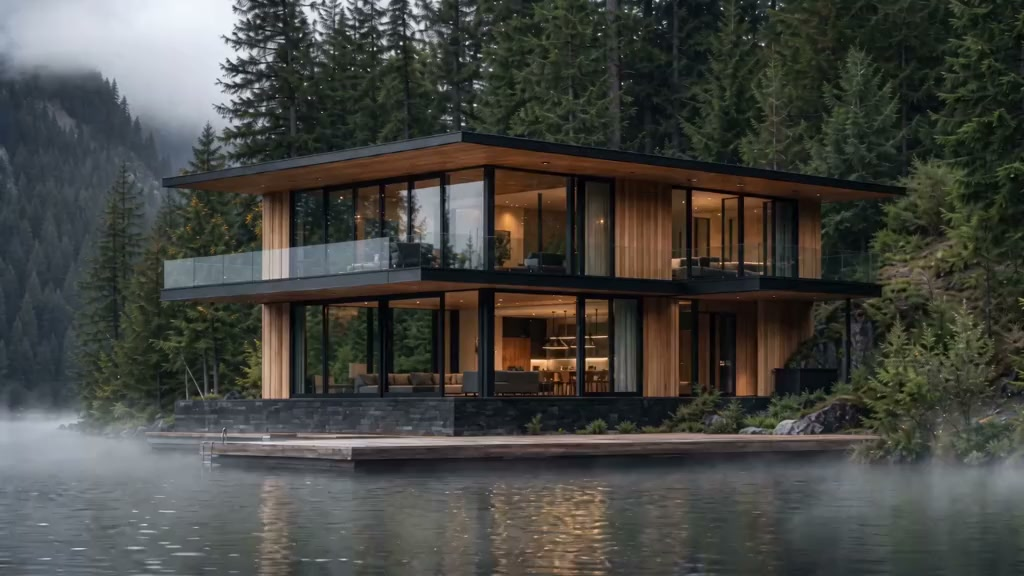
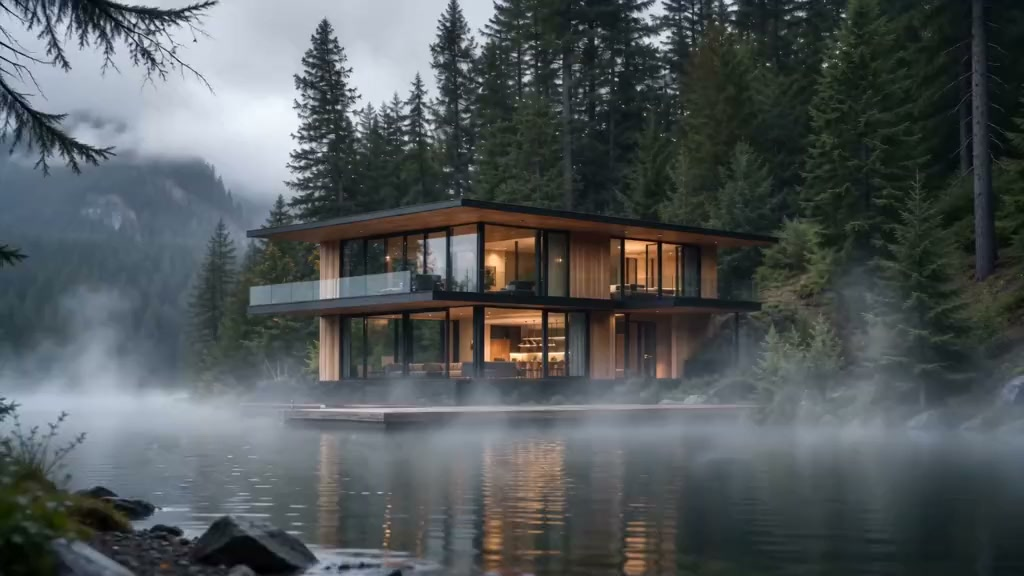
Hero v3: a slow dolly, because ping-pong retired the no-camera-move rule
Mist, ripple and swaying branches were not enough - the hero still read as a
photograph with some vapour on it. What tells an eye it is watching video is
camera motion, not world motion.

The original "no zoom, no camera move" line was never an aesthetic choice. It
was a workaround for looping: a camera that travels does not return, the last
frame sits far from the first, and the loop pops. Once the encode became
ping-pong that constraint was already solved - the reverse half walks the
camera back frame for frame. The prohibition had outlived its reason and was
still costing us.

A 15% dolly, same model, same price:

              frame drift    loop seam
  locked off       5.99         1.76
  15% dolly       37.22         1.97

Six times the motion, loop still clean, and push-pull is a better hero move
than a one-way push anyway.

diff --git a/LESSON.md b/LESSON.md
@@ -468,6 +468,43 @@ peak motion first vs mid : 6.11    התנועה נשמרה במלואה
 
 **שני יעדים סותרים לכאורה, שניהם הושגו, ושניהם נמדדו.**
 
+**הדגש שנגזר מזה, והוא החשוב מכולם: פינג-פונג מבטל את האיסור על תנועת מצלמה**
+
+הכלל שהתחלנו איתו — `No zoom in, no zoom out, no camera move` — לא היה כלל
+אסתטי. הוא היה **פתרון עוקף למגבלת הלופ.** מצלמה שנעה לא חוזרת לנקודת ההתחלה,
+הפריים האחרון רחוק מהראשון, והלופ קופץ. אז אסרנו תנועה.
+
+אבל אחרי שקידוד פינג-פונג נכנס, המגבלה הזו כבר לא קיימת — הוא מחזיר את המצלמה
+בדיוק לאותו מקום, פריים אחר פריים. **האיסור שרד את הסיבה שלו.**
+
+וזה בדיוק מה שהיה חסר. גם אחרי שהוספנו ערפל, אדוות וענפים, ההירו עדיין נקרא
+כתמונה עם קצת אדים, כי **מה שמסגיר וידאו לעין הוא תנועת מצלמה, לא תנועת עולם.**
+הוספנו דולי איטי של חמישה עשר אחוז:
+
+```prompt
+The camera pushes forward slowly and steadily toward the cabin across the
+water, a smooth continuous dolly of about fifteen percent over five seconds.
+Thick low mist rolls across the lake from right to left, passing in front of
+the dock. The water ripples the whole time and the cabin's reflection breaks up
+and reforms. The fir branches sway in the wind. Warm interior light spills
+across the deck. Continuous motion from the first frame to the last, never
+static.
+```
+
+התוצאה, באותה מדידה ובאותו מחיר:
+
+```text
+                 סחיפת פריים    תפר הלופ
+מצלמה נעולה          5.99         1.76
+דולי 15%            37.22         1.97
+```
+
+**פי שישה יותר תנועה, והלופ נשאר נקי.** הפינג-פונג הפך את הדחיפה
+לדחיפה-ומשיכה, שהיא ממילא תנועת הירו יפה יותר מדחיפה חד כיוונית.
+
+הלקח הכללי: **כשאתה מוסיף מנגנון, תחזור ותשאל אילו אילוצים ישנים הוא ייתר.**
+אילוץ ששרד את הסיבה שלו עולה לך בלי שתשים לב.
+
 הקידוד:
 
 ```bash

diff --git a/.kolbo/production.md b/.kolbo/production.md
@@ -77,7 +77,8 @@ arithmetic is stale the moment you write it. Run `check_credits` fresh instead.
 | item | model | settings | credits | generation | note |
 |---|---|---|---|---|---|
 | Hero loop v1 | `seedance-2` | 5s · 1080p | **338** | `6a69cb28b3e63bc59b9aad1c` | discarded, no motion |
-| Hero loop v2 | `seedance-2-fast` | 5s · 720p | **100** | `6a69d608b3e63bc59b9b053f` | shipped |
+| Hero loop v2 | `seedance-2-fast` | 5s · 720p | **100** | `6a69d608b3e63bc59b9b053f` | discarded, motion still too subtle |
+| Hero loop v3 | `seedance-2-fast` | 5s · 720p | **100** | `6a69dd0312e5571280eee1e9` | shipped, slow dolly |
 | Legs 1-7 | `dop/standard/first-last-frame` | 5s · 720p each | **700** | 7 generations | 2 extra 400s, not charged |
 
 Both completed. Video bills per second, so the `duration_multiplier: 5` in the
@@ -171,9 +172,10 @@ budget.
 |---|---|
 | 20 renders, two anchor passes | 160 |
 | Hero v1, discarded | 338 |
-| Hero v2, shipped | 100 |
+| Hero v2, discarded | 100 |
+| Hero v3, shipped | 100 |
 | 7 flight legs | 700 |
-| **Total** | **1,298** |
+| **Total** | **1,398** |
 
 Two `400` failures were not charged. Do not compute a remaining balance by
 subtraction — chat and coding spend credits too. Run `check_credits` fresh.
